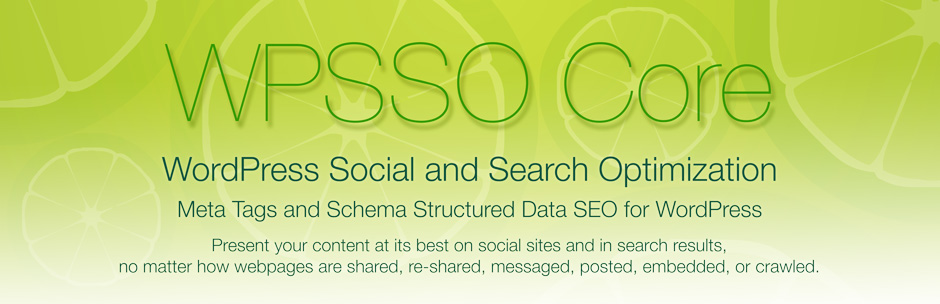
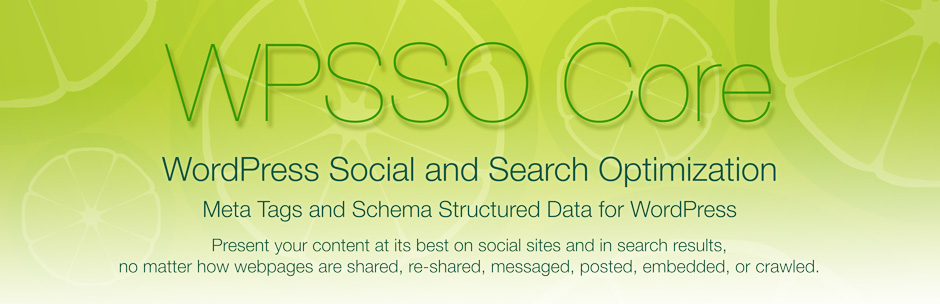
non-essential support files (documentation and assets)

Changed region(s): [[0.1851, 0.6513, 0.833, 0.7401]]

diff --git a/index.html b/index.html
@@ -25,7 +25,7 @@
         </ul>
       </header>
       <section>
-<h1>WPSSO</h1><h3>Meta Tags and Schema Structured Data SEO</h3>
+<h1>WPSSO</h1><h3>Meta Tags and Schema Structured Data</h3>
 
 <table>
 <tr><th align="right" valign="top" nowrap>Plugin Name</th><td>WPSSO Core</td></tr>
